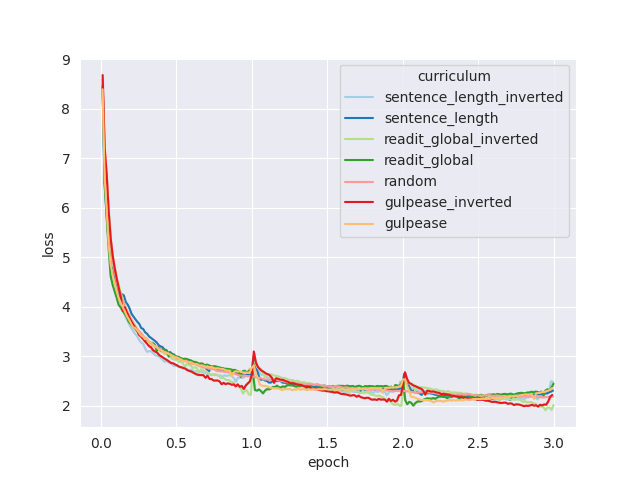
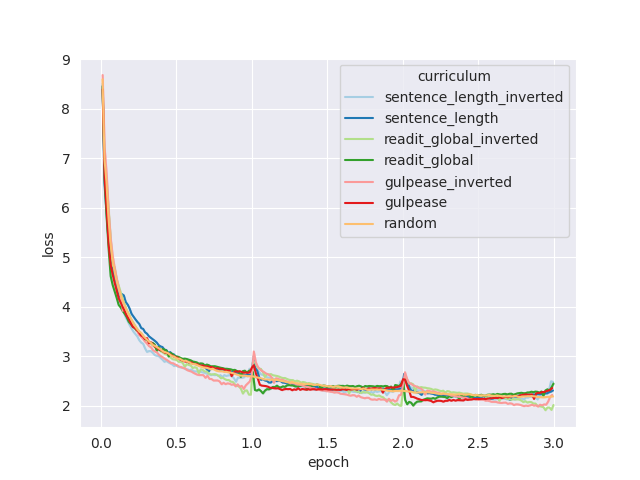
forgot to pass method parameter

diff --git a/scripts/eval/plot_training_loss.py b/scripts/eval/plot_training_loss.py
@@ -83,7 +83,7 @@ def main():
     if args.model_seed is None:
         all_loss_dfs = pd.concat(loss_dfs)
         output_path = f'results/{args.model_type}/{args.model_type}_medium_training_loss.png'
-        plot_loss(all_loss_dfs, output_path)    
+        plot_loss(all_loss_dfs, output_path, average_random=args.average_random)    
         
         
 if __name__ == '__main__':
